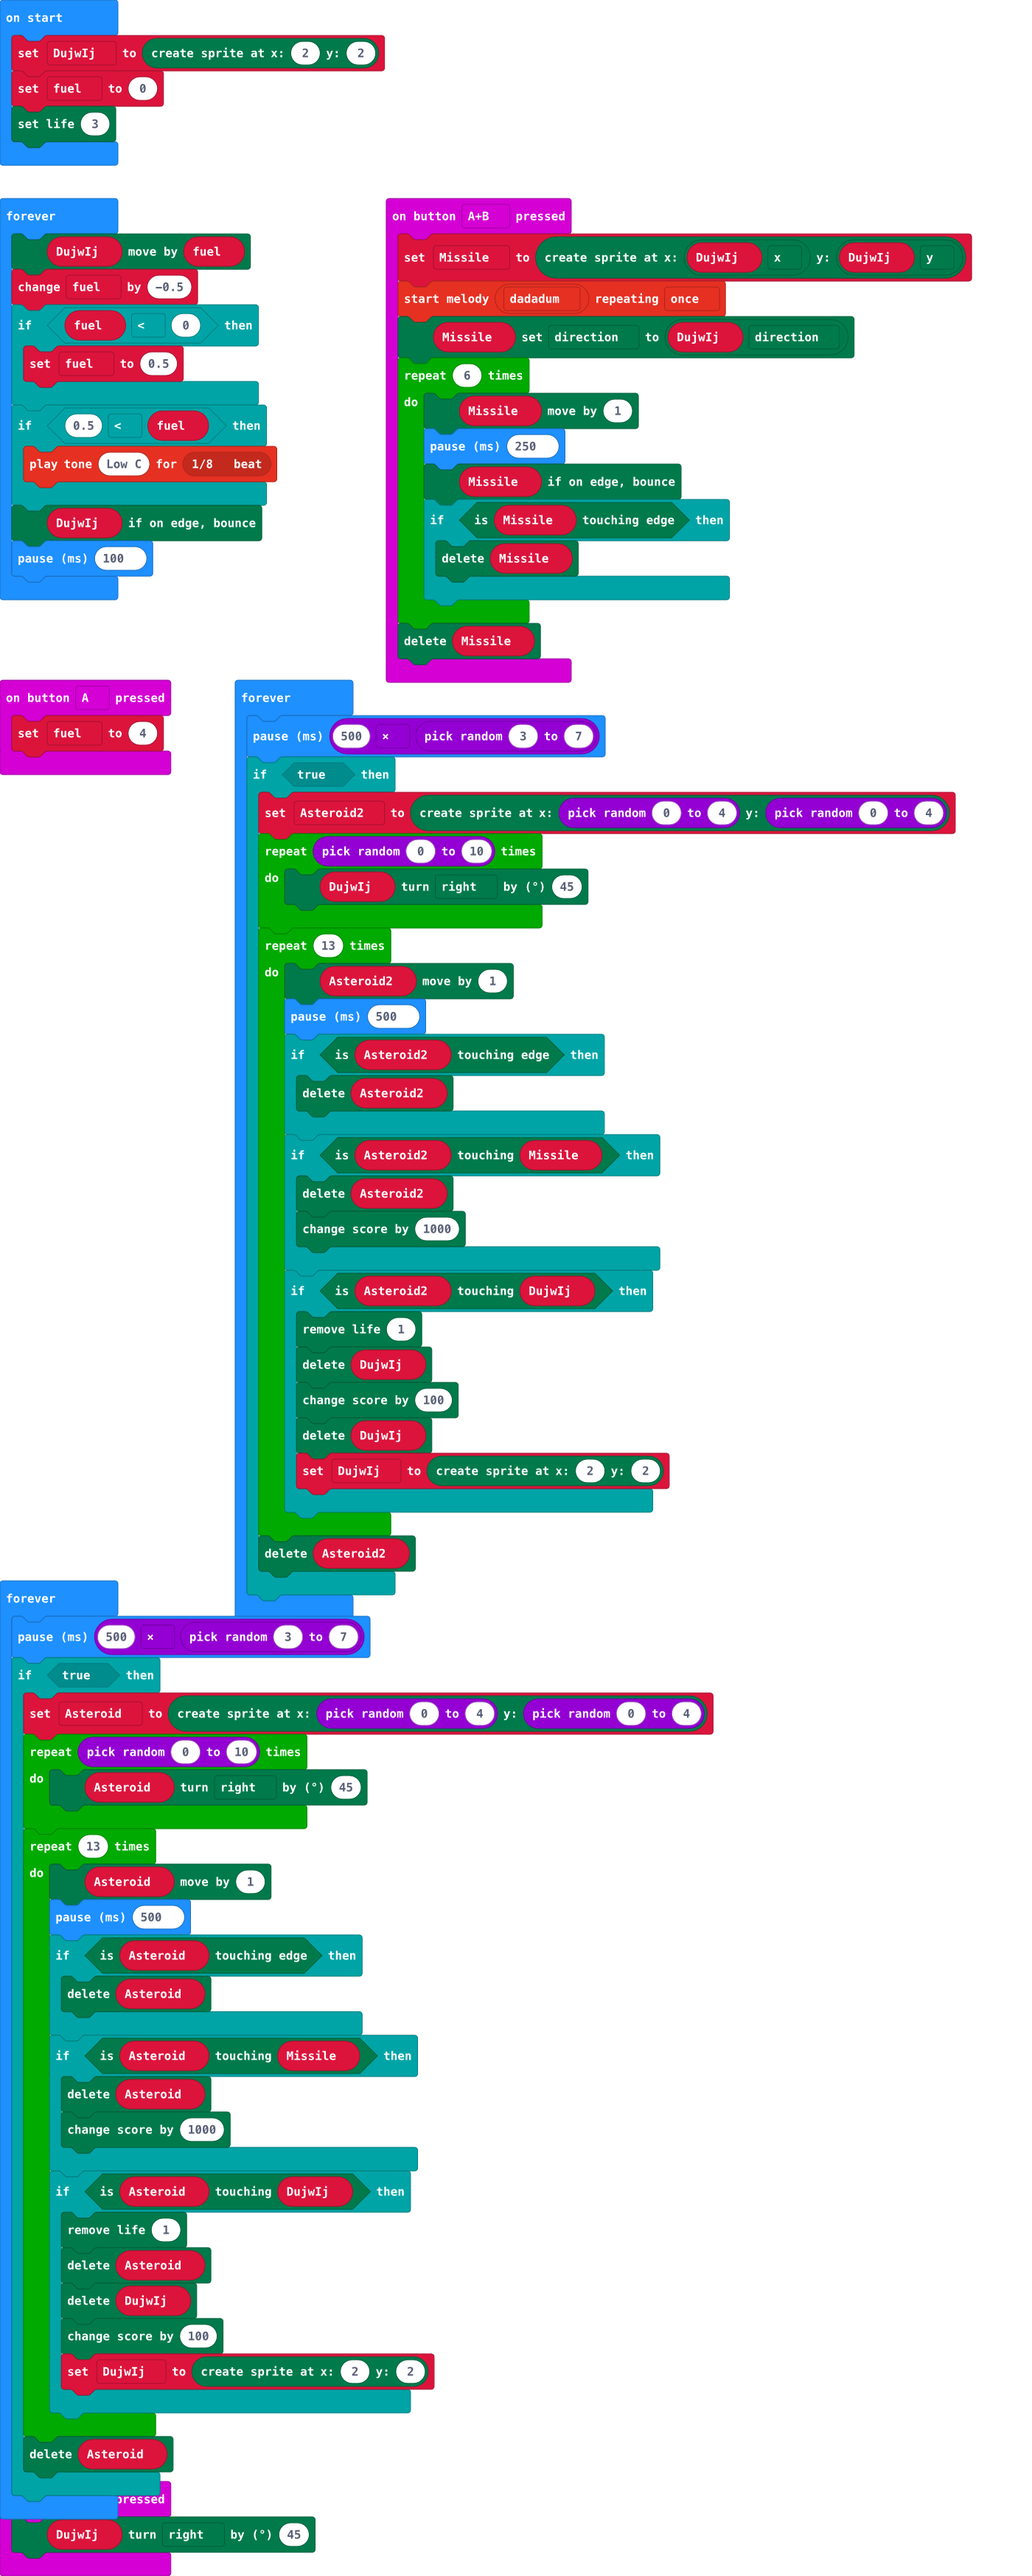
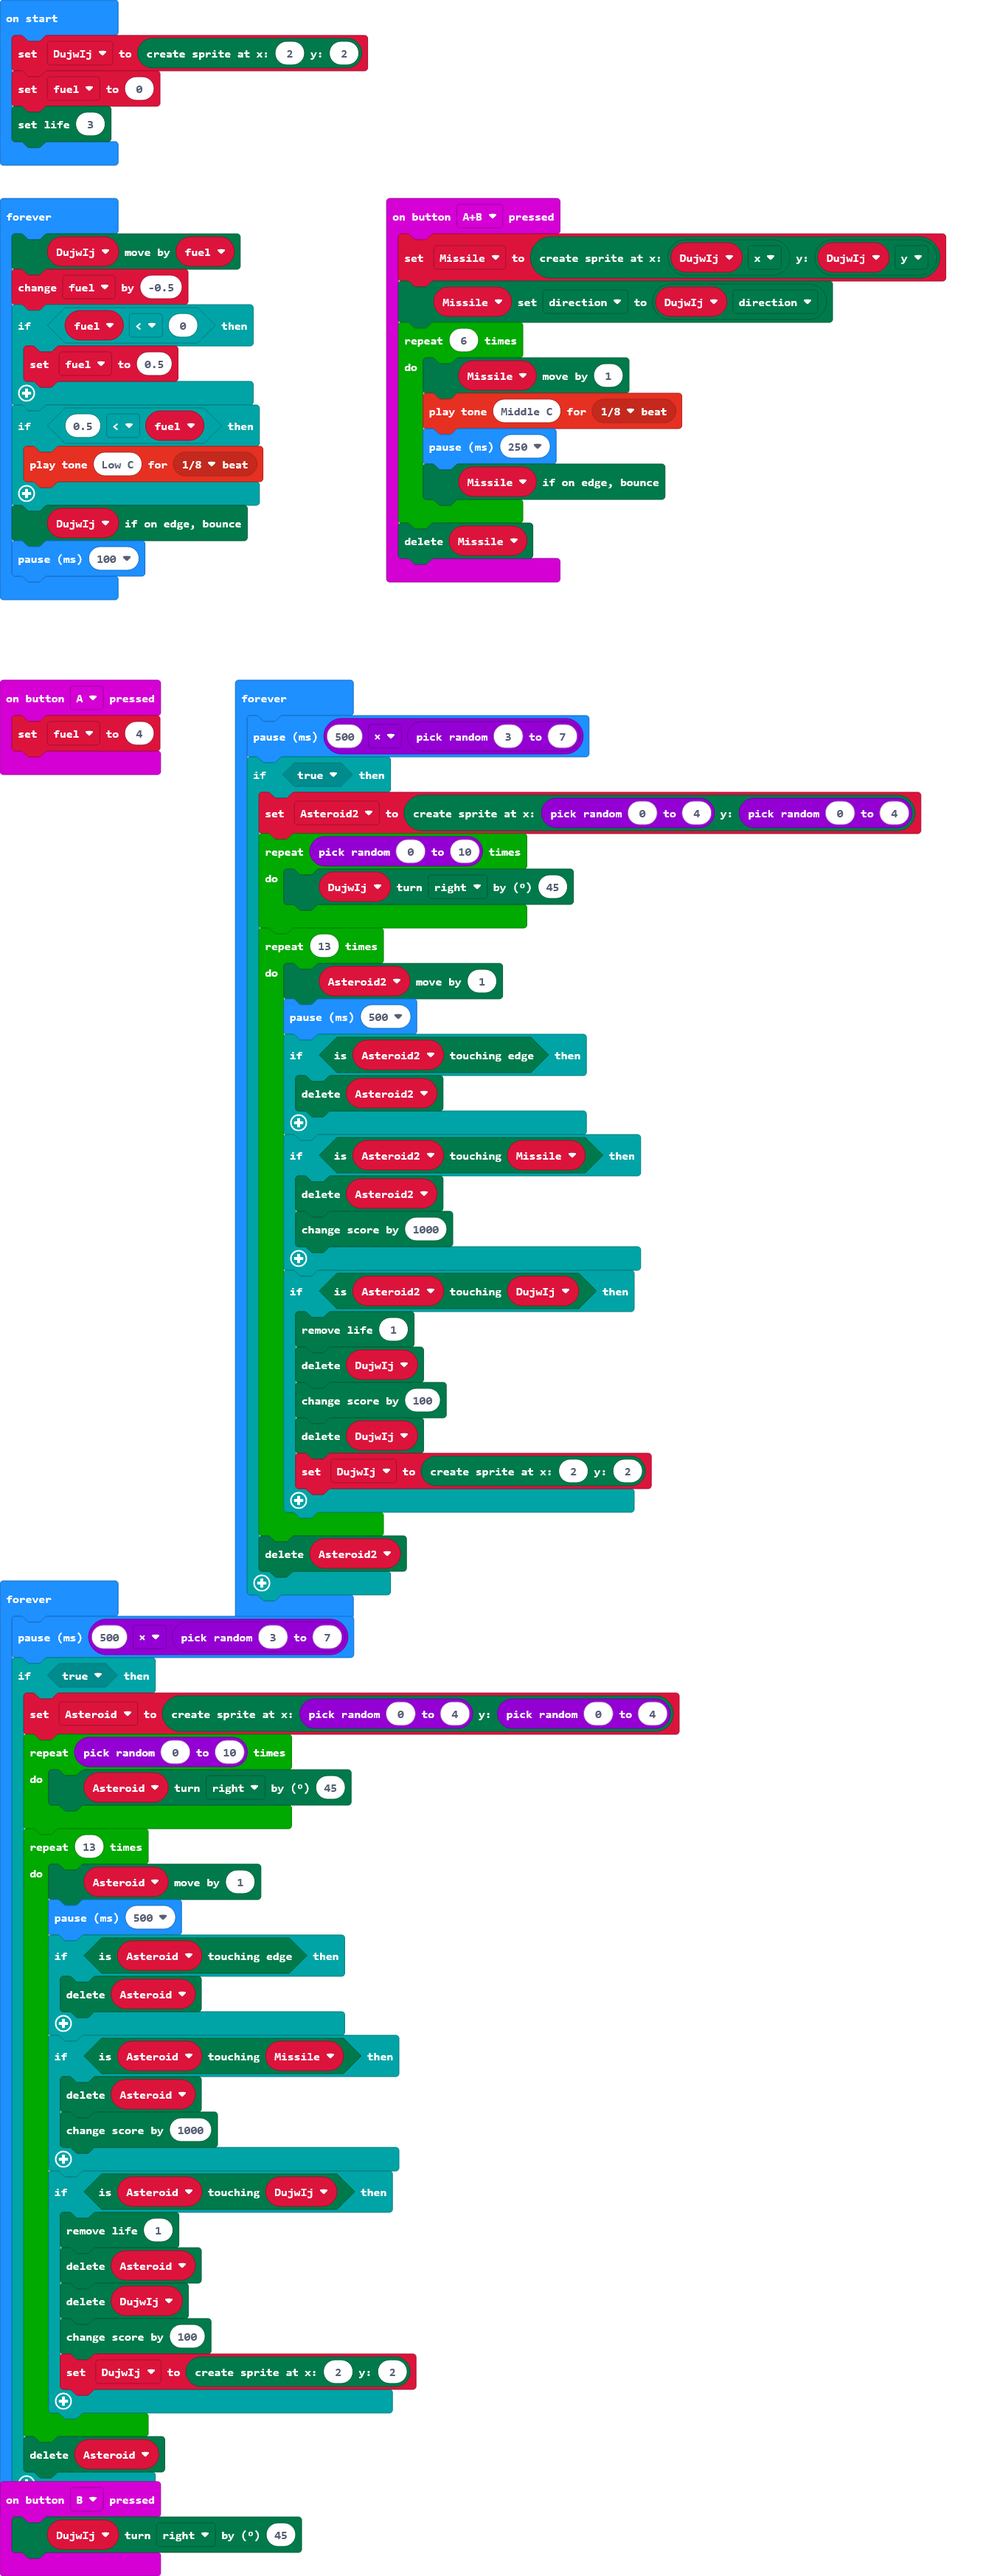
Update main.blocks, main.ts

diff --git a/main.ts b/main.ts
@@ -3,15 +3,12 @@ input.onButtonPressed(Button.A, function () {
 })
 input.onButtonPressed(Button.AB, function () {
     Missile = game.createSprite(DujwIj.get(LedSpriteProperty.X), DujwIj.get(LedSpriteProperty.Y))
-    music.startMelody(music.builtInMelody(Melodies.Dadadadum), MelodyOptions.Once)
     Missile.set(LedSpriteProperty.Direction, DujwIj.get(LedSpriteProperty.Direction))
     for (let index = 0; index < 6; index++) {
         Missile.move(1)
+        music.playTone(262, music.beat(BeatFraction.Eighth))
         basic.pause(250)
         Missile.ifOnEdgeBounce()
-        if (Missile.isTouchingEdge()) {
-            Missile.delete()
-        }
     }
     Missile.delete()
 })
